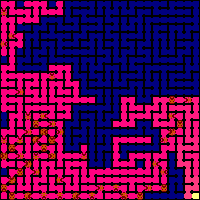
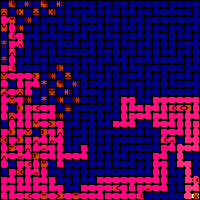
parallel load ants

diff --git a/ants.py b/ants.py
@@ -100,6 +100,7 @@ class Colony:
         Outputs: None
         """
         # Update of the random seed (for manual pseudo-random) applied to all unloaded ants
+        #mudanca aqui
         self.seeds[unloaded_ants] = np.mod(16807*self.seeds[unloaded_ants], 2147483647)
 
         # Calculating possible exits for each ant in the maze:
@@ -168,6 +169,8 @@ class Colony:
                 # Calculating indices of ants whose move we just validated:
                 ind_valid_moves = ind_ants_to_move[np.nonzero(valid_moves[ind_ants_to_move])[0]]
                 # For these ants, we update their positions and directions
+                #mudanca
+                #ind_valid_moves, new_pos, ind_ants_to_move
                 self.historic_path[ind_valid_moves, self.age[ind_valid_moves] + 1, :] = new_pos[valid_moves[ind_ants_to_move] == 1, :]
                 self.directions[ind_valid_moves] = dir[valid_moves[ind_ants_to_move] == 1]
 
@@ -205,22 +208,28 @@ class Colony:
                                                      self.historic_path[unloaded_ants, self.age[unloaded_ants], 1] == pos_food[1]))[0]
         if ants_at_food_loc.shape[0] > 0:
             ants_at_food = unloaded_ants[ants_at_food_loc]
+            #mudanca
             self.is_loaded[ants_at_food] = True
 
     def advance(self, the_maze, pos_food, pos_nest, pheromones,food_counter=0):
         if not new_comm == MPI.COMM_NULL:
-            
             loaded_ants = np.nonzero(self.is_loaded == True)[0]
             unloaded_ants = np.nonzero(self.is_loaded == False)[0]
-            if loaded_ants.shape[0] > 0:
-                #acho q posso jogar esse loaded _ants ja com os indices certos
-                food_counter = self.return_to_nest(loaded_ants, pos_nest, food_counter)
             if food_counter is None:
                     food_counter = 0
+            if loaded_ants.shape[0] > 0:
+                #on trouve les index pour chaque processeur de calcul
+                index_min = floor(rank_f * loaded_ants.shape[0]/size_f)
+                index_max = floor((rank_f+1) * loaded_ants.shape[0]/size_f)
+                #acho q posso jogar esse loaded _ants ja com os indices certos
+                food_counter = self.return_to_nest(loaded_ants[index_min:index_max], pos_nest, food_counter)
+            
             if unloaded_ants.shape[0] > 0:
+                index_min = floor(rank_f * unloaded_ants.shape[0]/size_f)
+                index_max = floor((rank_f+1) * unloaded_ants.shape[0]/size_f)
                 #acho q o explore nao chama nenhuma coisa mto complicada, pode ser totalmente
                 #paralelizado, a matriz pheromones dentro dele nao passa nenhuma modificacao
-                self.explore(unloaded_ants, the_maze, pos_food, pos_nest, pheromones)
+                self.explore(unloaded_ants[index_min:index_max], the_maze, pos_food, pos_nest, pheromones)
 
             old_pos_ants = self.historic_path[range(0, self.seeds.shape[0]), self.age[:], :]
             has_north_exit = np.bitwise_and(the_maze.maze[old_pos_ants[:, 0], old_pos_ants[:, 1]], maze.NORTH) > 0
@@ -328,4 +337,4 @@ if __name__ == "__main__":
                 pg.image.save(screen, "MyFirstFood.png")
                 snapshop_taken = True
             #pg.time.wait(500)
-            #print(f"FPS : {1./(end-deb):6.2f}, nourriture : {food_counter:7d}", end='\r')
+            print(f"FPS : {1./(end-deb):6.2f}, nourriture : {food_counter:7d}", end='\r')
